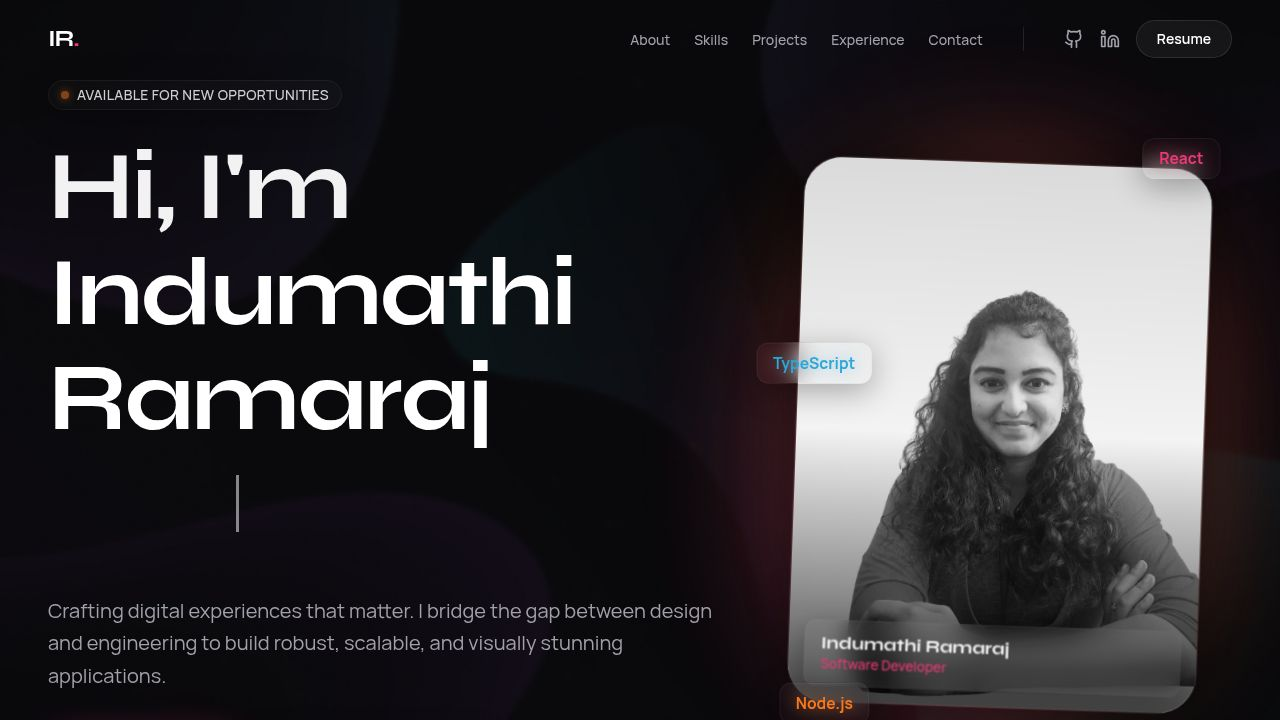
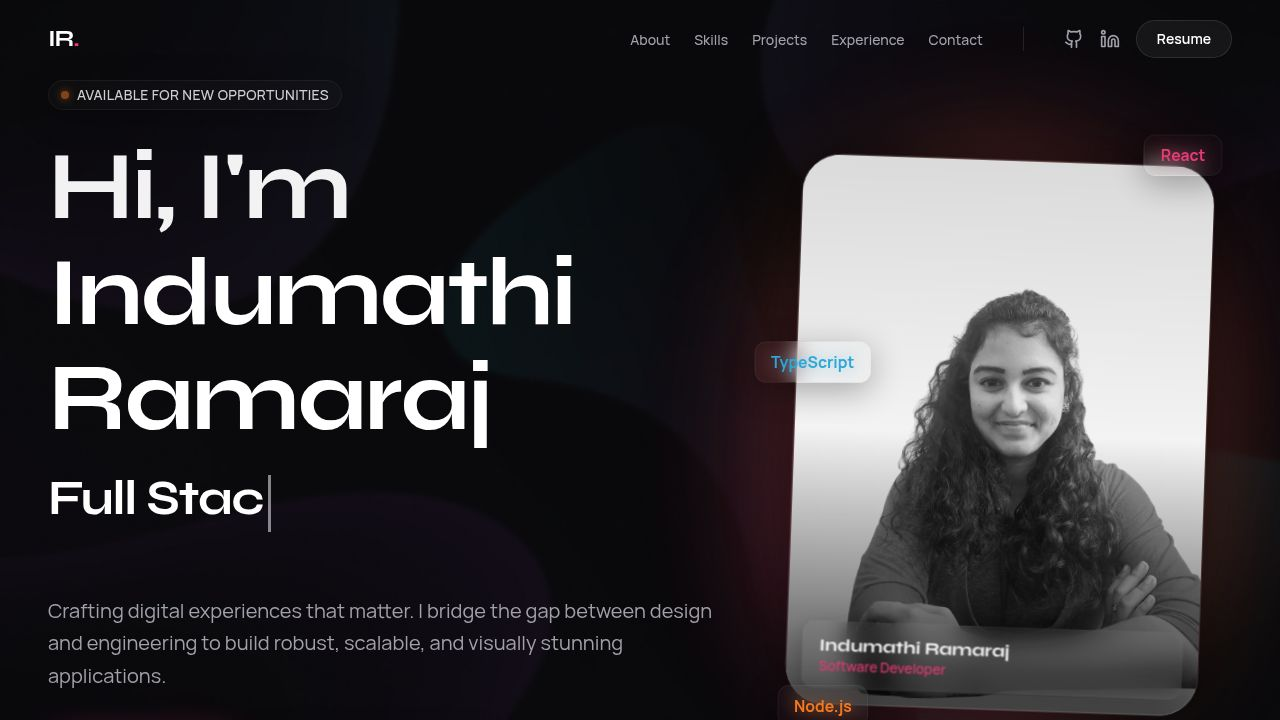
Update portfolio with new projects, styling, and contact form enhancements
Adds a new project "NonStop Traders", implements SMS fallback via TextBelt, updates phone placeholder, fixes hero text color, resolves duplicate project keys, and refactors contact form logic for email and SMS notifications.

Replit-Commit-Author: Agent
Replit-Commit-Session-Id: 64b2be4a-188d-4e1b-8a32-03a5f5d1053c
Replit-Commit-Checkpoint-Type: full_checkpoint
Replit-Commit-Event-Id: e848a477-e5cc-4aaa-b20c-54f857b6339d
Replit-Commit-Screenshot-Url: https://storage.googleapis.com/screenshot-production-us-central1/b97933a8-de4f-421c-930c-31be03a87de5/64b2be4a-188d-4e1b-8a32-03a5f5d1053c/puPVaei
Replit-Helium-Checkpoint-Created: true

diff --git a/artifacts/api-server/src/routes/contact.ts b/artifacts/api-server/src/routes/contact.ts
@@ -3,6 +3,51 @@ import nodemailer from "nodemailer";
 
 const router: IRouter = Router();
 
+const OWNER_PHONE = process.env.NOTIFY_PHONE || "+919952356475";
+
+async function sendSMS(name: string, email: string, phone: string, message: string, log: typeof router.post extends (...args: any[]) => any ? never : any) {
+  const smsBody = `📩 New Portfolio Message!\nFrom: ${name}\nEmail: ${email}${phone ? `\nPhone: ${phone}` : ""}\n\n${message.substring(0, 100)}${message.length > 100 ? "..." : ""}`;
+
+  const twilioSid = process.env.TWILIO_ACCOUNT_SID;
+  const twilioToken = process.env.TWILIO_AUTH_TOKEN;
+  const twilioFrom = process.env.TWILIO_PHONE_NUMBER;
+
+  if (twilioSid && twilioToken && twilioFrom) {
+    const params = new URLSearchParams({
+      From: twilioFrom,
+      To: OWNER_PHONE,
+      Body: smsBody,
+    });
+    const resp = await fetch(
+      `https://api.twilio.com/2010-04-01/Accounts/${twilioSid}/Messages.json`,
+      {
+        method: "POST",
+        headers: {
+          Authorization: "Basic " + Buffer.from(`${twilioSid}:${twilioToken}`).toString("base64"),
+          "Content-Type": "application/x-www-form-urlencoded",
+        },
+        body: params.toString(),
+      }
+    );
+    if (resp.ok) {
+      return { provider: "twilio", success: true };
+    }
+  }
+
+  const tbParams = new URLSearchParams({
+    phone: OWNER_PHONE,
+    message: smsBody,
+    key: process.env.TEXTBELT_KEY || "textbelt",
+  });
+  const tbResp = await fetch("https://textbelt.com/text", {
+    method: "POST",
+    headers: { "Content-Type": "application/x-www-form-urlencoded" },
+    body: tbParams.toString(),
+  });
+  const tbData = await tbResp.json() as { success: boolean; quotaRemaining?: number; error?: string };
+  return { provider: "textbelt", success: tbData.success, quota: tbData.quotaRemaining, error: tbData.error };
+}
+
 router.post("/contact", async (req, res) => {
   const { name, email, phone, message } = req.body;
 
@@ -34,7 +79,7 @@ router.post("/contact", async (req, res) => {
       subject: `New Portfolio Message from ${name}`,
       html: `
         <div style="font-family: Arial, sans-serif; max-width: 600px; margin: 0 auto; background: #0a0a0f; color: #fff; padding: 32px; border-radius: 12px; border: 1px solid rgba(255,255,255,0.1);">
-          <h2 style="color: #f43f5e; margin-top: 0;">New Portfolio Message</h2>
+          <h2 style="color: #f43f5e; margin-top: 0;">📩 New Portfolio Message</h2>
           <table style="width: 100%; border-collapse: collapse;">
             <tr><td style="padding: 8px 0; color: #999; width: 100px;">Name</td><td style="padding: 8px 0; font-weight: bold;">${name}</td></tr>
             <tr><td style="padding: 8px 0; color: #999;">Email</td><td style="padding: 8px 0;"><a href="mailto:${email}" style="color: #f97316;">${email}</a></td></tr>
@@ -49,39 +94,11 @@ router.post("/contact", async (req, res) => {
 
     req.log.info({ name, email }, "Contact email sent");
 
-    if (phone) {
-      const twilioSid = process.env.TWILIO_ACCOUNT_SID;
-      const twilioToken = process.env.TWILIO_AUTH_TOKEN;
-      const twilioFrom = process.env.TWILIO_PHONE_NUMBER;
-      const twilioTo = process.env.TWILIO_TO_PHONE;
-
-      if (twilioSid && twilioToken && twilioFrom && twilioTo) {
-        try {
-          const twilioUrl = `https://api.twilio.com/2010-04-01/Accounts/${twilioSid}/Messages.json`;
-          const params = new URLSearchParams({
-            From: twilioFrom,
-            To: twilioTo,
-            Body: `Portfolio message from ${name} (${email}${phone ? ", " + phone : ""}): ${message.substring(0, 120)}${message.length > 120 ? "..." : ""}`,
-          });
-
-          const twilioRes = await fetch(twilioUrl, {
-            method: "POST",
-            headers: {
-              Authorization: "Basic " + Buffer.from(`${twilioSid}:${twilioToken}`).toString("base64"),
-              "Content-Type": "application/x-www-form-urlencoded",
-            },
-            body: params.toString(),
-          });
-
-          if (twilioRes.ok) {
-            req.log.info({ name }, "SMS notification sent");
-          } else {
-            req.log.warn({ status: twilioRes.status }, "SMS failed");
-          }
-        } catch (smsErr) {
-          req.log.warn({ err: smsErr }, "SMS error (non-fatal)");
-        }
-      }
+    try {
+      const smsResult = await sendSMS(name, email, phone || "", message, req.log);
+      req.log.info({ smsResult }, "SMS notification attempted");
+    } catch (smsErr) {
+      req.log.warn({ err: smsErr }, "SMS error (non-fatal)");
     }
 
     res.json({ success: true, message: "Message sent successfully!" });

diff --git a/artifacts/portfolio/src/lib/data.ts b/artifacts/portfolio/src/lib/data.ts
@@ -13,6 +13,7 @@ export const personalInfo = {
     { label: "Years Experience", value: 3, plus: true },
     { label: "Projects Completed", value: 20, plus: true },
     { label: "Technologies", value: 15, plus: true },
+    { label: "Technical Trainer", value: "React.js", plus: false },
   ]
 };
 
@@ -20,7 +21,7 @@ export const skills = {
   frontend: ["React.js", "Next.js", "TypeScript", "JavaScript", "Tailwind CSS", "Redux (Saga/Thunk)", "HTML5/CSS3", "Bootstrap", "TanStack Table"],
   backend: ["FastAPI", "Express.js", "Node.js", "RESTful APIs", "JWT Auth", "Swagger", "SQLAlchemy"],
   database: ["PostgreSQL", "MySQL", "MongoDB", "Azure Synapse"],
-  tools: ["Docker", "AWS", "GitHub", "GitLab", "JIRA", "Figma", "Postman", "Microsoft Azure"]
+  tools: ["Docker", "AWS", "GitHub", "GitLab", "JIRA", "Figma", "Postman", "Microsoft Azure", "Replit", "Antigravity", "Copilot"]
 };
 
 export const projects = [
@@ -66,6 +67,16 @@ export const projects = [
   },
   {
     id: 5,
+    title: "NonStop Traders",
+    description: "Contributed to building a full-featured e-commerce platform where customers can add products to wishlists and carts, manage orders, and complete purchases through a seamlessly integrated Razorpay payment gateway. Enhanced the overall UI experience with a modern, responsive design and integrated WhatsApp notifications to keep customers informed at every step of their shopping journey.",
+    category: "Frontend",
+    tech: ["React.js", "Node.js", "SCSS", "MongoDB"],
+    github: "#",
+    live: "https://nonstoptraders.com/",
+    color: "from-orange-500/20 to-amber-500/20"
+  },
+  {
+    id: 6,
     title: "Kompres",
     description: "Spearheaded the modernization of a decade-old codebase, enhancing system performance by 45%, and successfully integrated THINGS BOARD for real-time data management.",
     category: "Full Stack",
@@ -75,7 +86,7 @@ export const projects = [
     color: "from-violet-500/20 to-fuchsia-500/20"
   },
   {
-    id: 6,
+    id: 7,
     title: "COVID-19 Plasma Donation Portal",
     description: "Directed the UX design and development to connect plasma donors with recipients, increasing accessibility by 50%. Built an intuitive platform during a critical period to help communities in need.",
     category: "Frontend",

diff --git a/artifacts/portfolio/src/components/About.tsx b/artifacts/portfolio/src/components/About.tsx
@@ -56,10 +56,16 @@ export function About() {
                     <Icon className="w-6 h-6" />
                   </div>
                   
-                  <div className="font-display text-5xl md:text-6xl font-bold text-white mb-2 flex items-center">
-                    {stat.value}
-                    {stat.plus && <span className="text-transparent bg-clip-text bg-gradient-to-r from-primary to-secondary">+</span>}
-                  </div>
+                  {typeof stat.value === 'number' ? (
+                    <div className="font-display text-5xl md:text-6xl font-bold text-white mb-2 flex items-center">
+                      {stat.value}
+                      {stat.plus && <span className="text-transparent bg-clip-text bg-gradient-to-r from-primary to-secondary">+</span>}
+                    </div>
+                  ) : (
+                    <div className="font-display text-2xl md:text-3xl font-bold text-transparent bg-clip-text bg-gradient-to-r from-emerald-400 to-teal-400 mb-2">
+                      {stat.value}
+                    </div>
+                  )}
                   <div className="text-sm text-muted-foreground font-medium uppercase tracking-wider">
                     {stat.label}
                   </div>

diff --git a/artifacts/portfolio/src/components/Contact.tsx b/artifacts/portfolio/src/components/Contact.tsx
@@ -150,7 +150,7 @@ export function Contact() {
                   value={form.phone}
                   onChange={handleChange}
                   className="w-full bg-black/40 border border-white/10 rounded-xl px-4 py-3.5 text-white placeholder:text-white/20 focus:outline-none focus:border-secondary focus:ring-1 focus:ring-secondary focus:shadow-[0_0_15px_hsl(var(--secondary)/0.3)] transition-all"
-                  placeholder="+91 98765 43210"
+                  placeholder="+91 9952356475"
                 />
               </div>
               

diff --git a/artifacts/portfolio/src/components/Hero.tsx b/artifacts/portfolio/src/components/Hero.tsx
@@ -41,7 +41,7 @@ export function Hero() {
             </h1>
 
             <div className="h-16 sm:h-20 md:h-24 mb-6">
-              <h2 className="font-display text-3xl sm:text-4xl md:text-5xl font-bold text-gradient">
+              <h2 className="font-display text-3xl sm:text-4xl md:text-5xl font-bold text-white">
                 <Typewriter words={roles} />
               </h2>
             </div>

diff --git a/artifacts/portfolio/src/components/Skills.tsx b/artifacts/portfolio/src/components/Skills.tsx
@@ -88,7 +88,7 @@ export function Skills() {
                 initial="hidden"
                 whileInView="show"
                 viewport={{ once: true }}
-                className="flex flex-wrap gap-3 mt-auto"
+                className="flex flex-wrap gap-3"
               >
                 {category.items.map(skill => (
                   <motion.span
